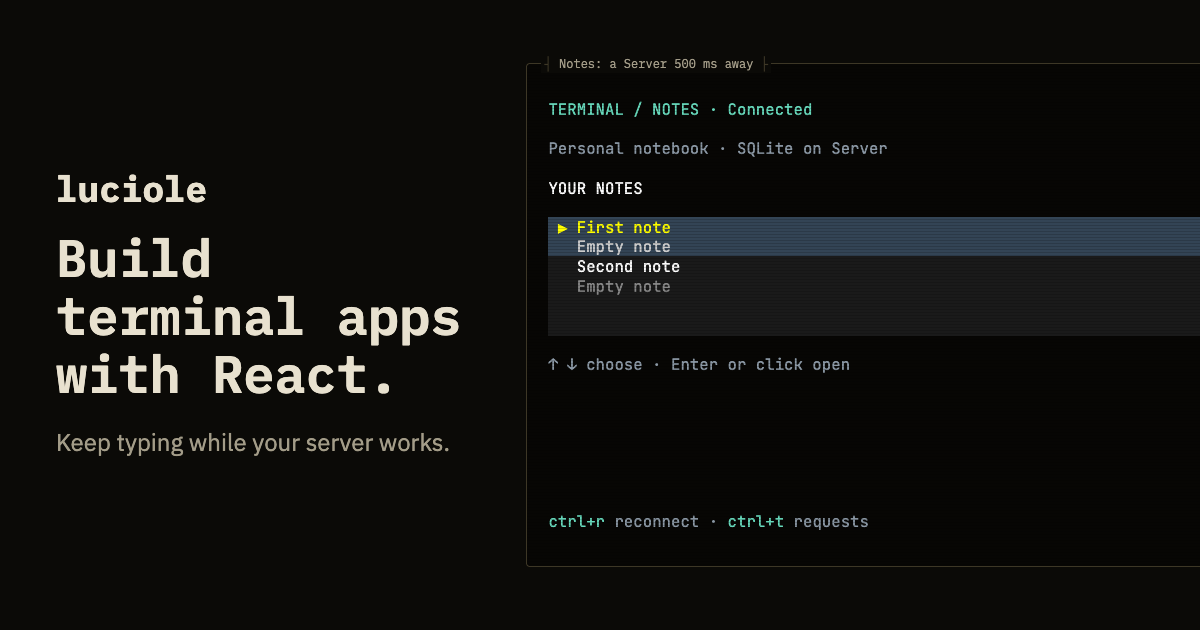
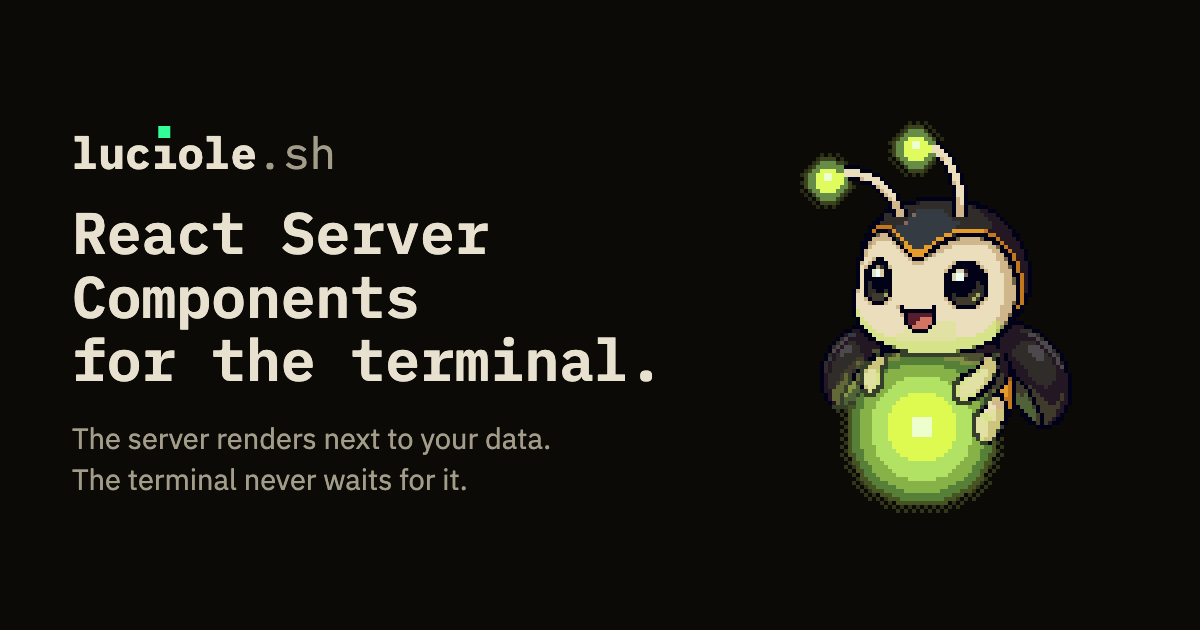
feat(site): share card and README greet with the mascot
Links to the site showed a Notes screenshot under "Build terminal
apps with React", a pitch Ink already owns and that screenshots
illustrate poorly in a feed. The card now carries the name, the
Server Components promise and the mascot, large enough to recognise
in a timeline.

The README opens with the mascot too, a dark and a light picture for
GitHub's themes. They are pre-scaled 4x with no smoothing because
GitHub scales images smoothly, which blurs pixel art.

diff --git a/README.md b/README.md
@@ -1,3 +1,10 @@
+<p align="center">
+  <picture>
+    <source media="(prefers-color-scheme: light)" srcset="website/public/mascot/readme-light.png" />
+    <img src="website/public/mascot/readme-dark.png" width="172" height="226" alt="The luciole mascot: a pixel-art firefly hugging its glowing lantern" />
+  </picture>
+</p>
+
 # luciole
 
 Build terminal apps with React. Typing and scrolling stay local; the server keeps
